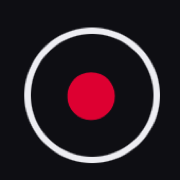
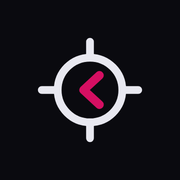
updated the og images + docs site

Changed region(s): [[0.1111, 0.1389, 0.8889, 0.9167]]

diff --git a/site/index.html b/site/index.html
@@ -8,19 +8,34 @@
     name="description"
     content="A dev-mode Angular provider that turns Alt+Click into LLM-ready context: component, file:line, template, and cleaned HTML, copied to your clipboard for AI coding agents. Angular 21-22."
   />
-  <meta property="og:title" content="ng-point" />
+  <meta property="og:title" content="ng-point: one Alt+Click, your agent is already on it" />
   <meta
     property="og:description"
     content="One Alt+Click and your agent is already on it. A dev-mode Angular provider for AI coding agents."
   />
   <meta property="og:type" content="website" />
+  <meta property="og:site_name" content="ng-point" />
   <link rel="canonical" href="https://abiramcodes.github.io/ng-point/" />
   <meta property="og:url" content="https://abiramcodes.github.io/ng-point/" />
   <meta
     property="og:image"
-    content="https://abiramcodes.github.io/ng-point/media/poster-fixed.png"
+    content="https://abiramcodes.github.io/ng-point/media/og-card.png"
+  />
+  <meta property="og:image:width" content="1200" />
+  <meta property="og:image:height" content="630" />
+  <meta
+    property="og:image:alt"
+    content="ng-point — a dark targeting-console card with the reticle logo, the headline 'One Alt+Click. Your agent is already on it.' and the npm install command framed by amber corner brackets."
   />
   <meta name="twitter:card" content="summary_large_image" />
+  <meta
+    name="twitter:image"
+    content="https://abiramcodes.github.io/ng-point/media/og-card.png"
+  />
+  <meta
+    name="twitter:image:alt"
+    content="ng-point — reticle logo, 'One Alt+Click. Your agent is already on it.' and the npm install command."
+  />
   <meta name="color-scheme" content="light dark" />
   <script>
     try {

diff --git a/scripts/og_card.py b/scripts/og_card.py
@@ -1,0 +1,246 @@
+#!/usr/bin/env python3
+"""Render the ng-point social/OG cards (site/media/) in the current design.
+
+Cards are drawn from the landing page's own visual system — dark instrument
+base, faint coordinate grid, reticle logo with the < chevron in brand
+red-magenta, JetBrains Mono, hard corners, and the install box framed by the
+scene's amber corner brackets with the border glint parked on it.
+
+Outputs:
+  site/media/og-card.png         1200x630  (og:image / twitter large card)
+  site/media/og-card-square.png  1080x1080 (square crop for manual use)
+  site/media/apple-touch-icon.png 180x180  (iOS home-screen icon)
+
+Usage: pw-venv/bin/python scripts/og_card.py
+"""
+
+from pathlib import Path
+
+from playwright.sync_api import sync_playwright
+from PIL import Image
+
+ROOT = Path(__file__).resolve().parent.parent
+OUT = ROOT / "site" / "media"
+
+# The landing page's own tokens (dark theme).
+TOKENS = """
+      --bg: #0a0a0f;
+      --ink: #e8e8f0;
+      --dim: #8a8a9a;
+      --rule: #1e1e28;
+      --surf: #14141b;
+      --surf-edge: #2b2b36;
+      --pick: #ffc53d;
+      --brand: #d40f62;
+      --grid: rgba(232, 232, 240, 0.035);
+"""
+
+HTML = """<!doctype html>
+<html lang="en">
+<head>
+<meta charset="utf-8" />
+<link rel="preconnect" href="https://fonts.googleapis.com" />
+<link rel="preconnect" href="https://fonts.gstatic.com" crossorigin />
+<link rel="stylesheet"
+      href="https://fonts.googleapis.com/css2?family=JetBrains+Mono:wght@400;500;700;800&display=swap" />
+<style>
+  * { box-sizing: border-box; border-radius: 0; margin: 0; }
+  :root { %(tokens)s }
+  body {
+    width: %(w)dpx;
+    height: %(h)dpx;
+    overflow: hidden;
+    background: var(--bg);
+    background-image:
+      linear-gradient(var(--grid) 1px, transparent 1px),
+      linear-gradient(90deg, var(--grid) 1px, transparent 1px);
+    background-size: 32px 32px;
+    color: var(--ink);
+    font: 400 %(base)dpx/1.6 'JetBrains Mono', 'SF Mono', Consolas, monospace;
+    -webkit-font-smoothing: antialiased;
+  }
+  .card {
+    position: relative;
+    width: 100%%;
+    height: 100%%;
+    display: flex;
+    flex-direction: column;
+    justify-content: space-between;
+    padding: %(pad)dpx;
+  }
+  .brandrow { display: flex; align-items: center; gap: %(brandgap)dpx; }
+  .brandrow svg { display: block; }
+  .wordmark {
+    font-size: %(word)dpx;
+    font-weight: 800;
+    letter-spacing: 0.5px;
+  }
+  .meta {
+    margin-inline-start: auto;
+    color: var(--dim);
+    font-size: %(meta)dpx;
+    text-align: right;
+    line-height: 1.5;
+  }
+  .headline {
+    font-size: %(head)dpx;
+    font-weight: 800;
+    line-height: 1.16;
+    letter-spacing: -0.5px;
+    margin-block: %(headgap)dpx 0;
+  }
+  .installwrap {
+    position: relative;
+    margin-block-start: %(boxgap)dpx;
+    padding: %(brk)dpx;
+    width: max-content;
+  }
+  .install {
+    position: relative;
+    padding: 16px 24px;
+    background: var(--surf);
+    border: 1px solid var(--surf-edge);
+    font-size: %(install)dpx;
+    font-weight: 500;
+  }
+  .install .dollar { color: var(--dim); margin-inline-end: 12px; }
+  .install .pkg { color: var(--ink); font-weight: 700; }
+  /* the site's border glint, parked mid-orbit */
+  .install::before {
+    content: '';
+    position: absolute;
+    inset: 0;
+    pointer-events: none;
+    padding: 1px;
+    background: conic-gradient(
+      from 40deg,
+      transparent 0deg 300deg,
+      color-mix(in oklab, #ffc53d 35%%, transparent) 318deg,
+      color-mix(in oklab, #ffc53d 70%%, transparent) 328deg,
+      color-mix(in oklab, #ffc53d 35%%, transparent) 338deg,
+      transparent 356deg 360deg
+    );
+    -webkit-mask: linear-gradient(#fff 0 0) content-box, linear-gradient(#fff 0 0);
+    -webkit-mask-composite: xor;
+    mask: linear-gradient(#fff 0 0) content-box, linear-gradient(#fff 0 0);
+    mask-composite: exclude;
+  }
+  /* the scene's fiducial corner brackets: this command is the target */
+  .brk { position: absolute; width: %(brkarm)dpx; height: %(brkarm)dpx; }
+  .brk.tl { inset-block-start: 0; inset-inline-start: 0;
+             border-block-start: 2px solid var(--pick); border-inline-start: 2px solid var(--pick); }
+  .brk.tr { inset-block-start: 0; inset-inline-end: 0;
+             border-block-start: 2px solid var(--pick); border-inline-end: 2px solid var(--pick); }
+  .brk.bl { inset-block-end: 0; inset-inline-start: 0;
+             border-block-end: 2px solid var(--pick); border-inline-start: 2px solid var(--pick); }
+  .brk.br { inset-block-end: 0; inset-inline-end: 0;
+             border-block-end: 2px solid var(--pick); border-inline-end: 2px solid var(--pick); }
+  .footrow {
+    display: flex;
+    align-items: baseline;
+    justify-content: space-between;
+    gap: 24px;
+    color: var(--dim);
+    font-size: %(foot)dpx;
+  }
+  .url { white-space: nowrap; }
+</style>
+</head>
+<body>
+  <div class="card">
+    <div class="brandrow">
+      <svg width="%(logo)d" height="%(logo)d" viewBox="0 0 26 26" aria-hidden="true">
+        <circle cx="13" cy="13" r="7.5" fill="none" stroke="var(--ink)" stroke-width="1.8" />
+        <path d="M13 1.8v3.2M13 21v3.2M1.8 13h3.2M21 13h3.2"
+              stroke="var(--ink)" stroke-width="1.8" stroke-linecap="round" />
+        <path d="M15.2 9.6L11.5 13l3.7 3.4"
+              fill="none" stroke="var(--brand)" stroke-width="2"
+              stroke-linecap="round" stroke-linejoin="round" />
+      </svg>
+      <span class="wordmark">ng-point</span>
+      <span class="meta">angular 21&ndash;22<br />dev-mode only &middot; MIT</span>
+    </div>
+
+    <div>
+      <h1 class="headline">One Alt+Click.<br />Your agent is already on it.</h1>
+      <div class="installwrap">
+        <i class="brk tl"></i><i class="brk tr"></i><i class="brk bl"></i><i class="brk br"></i>
+        <div class="install"><span class="dollar">$</span>npm install -D <span class="pkg">ng-point</span></div>
+      </div>
+    </div>
+
+    <div class="footrow">
+      <span>component &middot; file:line &middot; cleaned html &middot; your instruction</span>
+      <span class="url">abiramcodes.github.io/ng-point</span>
+    </div>
+  </div>
+</body>
+</html>
+"""
+
+WIDE = dict(w=1200, h=630, pad=72, base=22, logo=64, brandgap=20, word=34,
+            meta=19, head=56, headgap=40, boxgap=44, install=23,
+            brk=14, brkarm=24, foot=19)
+SQUARE = dict(w=1080, h=1080, pad=88, base=23, logo=72, brandgap=24, word=38,
+              meta=20, head=62, headgap=48, boxgap=56, install=25,
+              brk=16, brkarm=28, foot=20)
+
+
+def render(pg, values, out_name):
+    html = HTML % dict(values, tokens=TOKENS)
+    pg.set_viewport_size({"width": values["w"], "height": values["h"]})
+    pg.set_content(html, wait_until="networkidle")
+    pg.evaluate("document.fonts.ready.then(() => {})")
+    pg.wait_for_timeout(400)
+    pg.screenshot(path=str(OUT / out_name), clip={"x": 0, "y": 0,
+                                                 "width": values["w"],
+                                                 "height": values["h"]})
+    print(f"saved {OUT / out_name} ({values['w']}x{values['h']})")
+
+
+def main():
+    OUT.mkdir(parents=True, exist_ok=True)
+    with sync_playwright() as p:
+        browser = p.chromium.launch()
+        pg = browser.new_page()
+        render(pg, WIDE, "og-card.png")
+        render(pg, SQUARE, "og-card-square.png")
+        render_touch_icon(pg)
+        browser.close()
+
+
+def render_touch_icon(pg):
+    """iOS home-screen icon: solid dark base, the reticle mark at 2x."""
+    size = 360  # rendered at 2x, downscaled to 180 for crisp strokes
+    pg.set_viewport_size({"width": size, "height": size})
+    pg.set_content(f"""<!doctype html>
+<html><head><style>
+  * {{ box-sizing: border-box; border-radius: 0; margin: 0; }}
+  html, body {{ width: {size}px; height: {size}px; overflow: hidden; }}
+  body {{
+    display: grid;
+    place-items: center;
+    background: #0a0a0f;
+  }}
+  svg {{ display: block; width: 224px; height: 224px; }}
+</style></head>
+<body>
+  <svg viewBox="0 0 26 26" aria-hidden="true">
+    <circle cx="13" cy="13" r="7.5" fill="none" stroke="#e8e8f0" stroke-width="1.8" />
+    <path d="M13 1.8v3.2M13 21v3.2M1.8 13h3.2M21 13h3.2"
+          stroke="#e8e8f0" stroke-width="1.8" stroke-linecap="round" />
+    <path d="M15.2 9.6L11.5 13l3.7 3.4"
+          fill="none" stroke="#d40f62" stroke-width="2"
+          stroke-linecap="round" stroke-linejoin="round" />
+  </svg>
+</body></html>""")
+    pg.wait_for_timeout(200)
+    tmp = OUT / "apple-touch-icon@2x.png"
+    pg.screenshot(path=str(tmp), clip={"x": 0, "y": 0, "width": size, "height": size})
+    Image.open(tmp).resize((180, 180), Image.LANCZOS).save(OUT / "apple-touch-icon.png")
+    tmp.unlink()
+    print(f"saved {OUT / 'apple-touch-icon.png'} (180x180 from {size}px render)")
+
+
+if __name__ == "__main__":
+    main()
